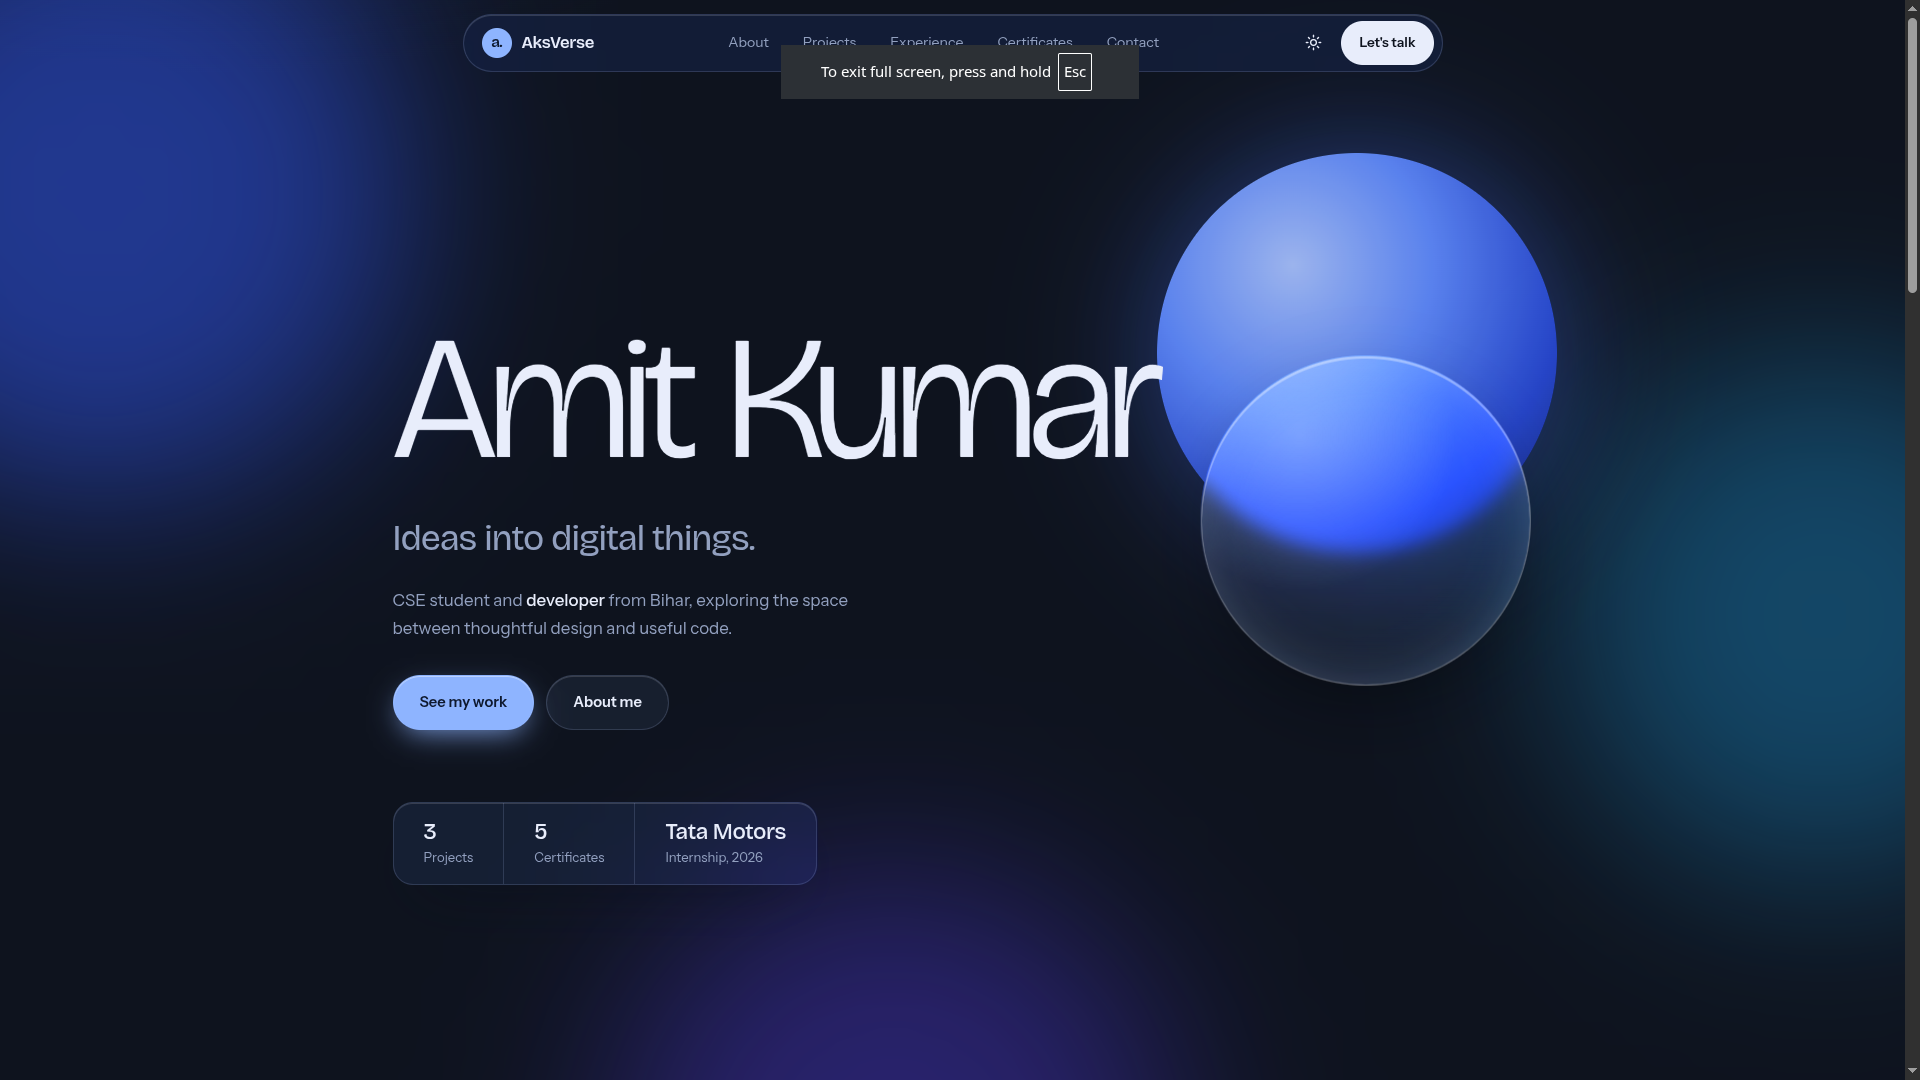
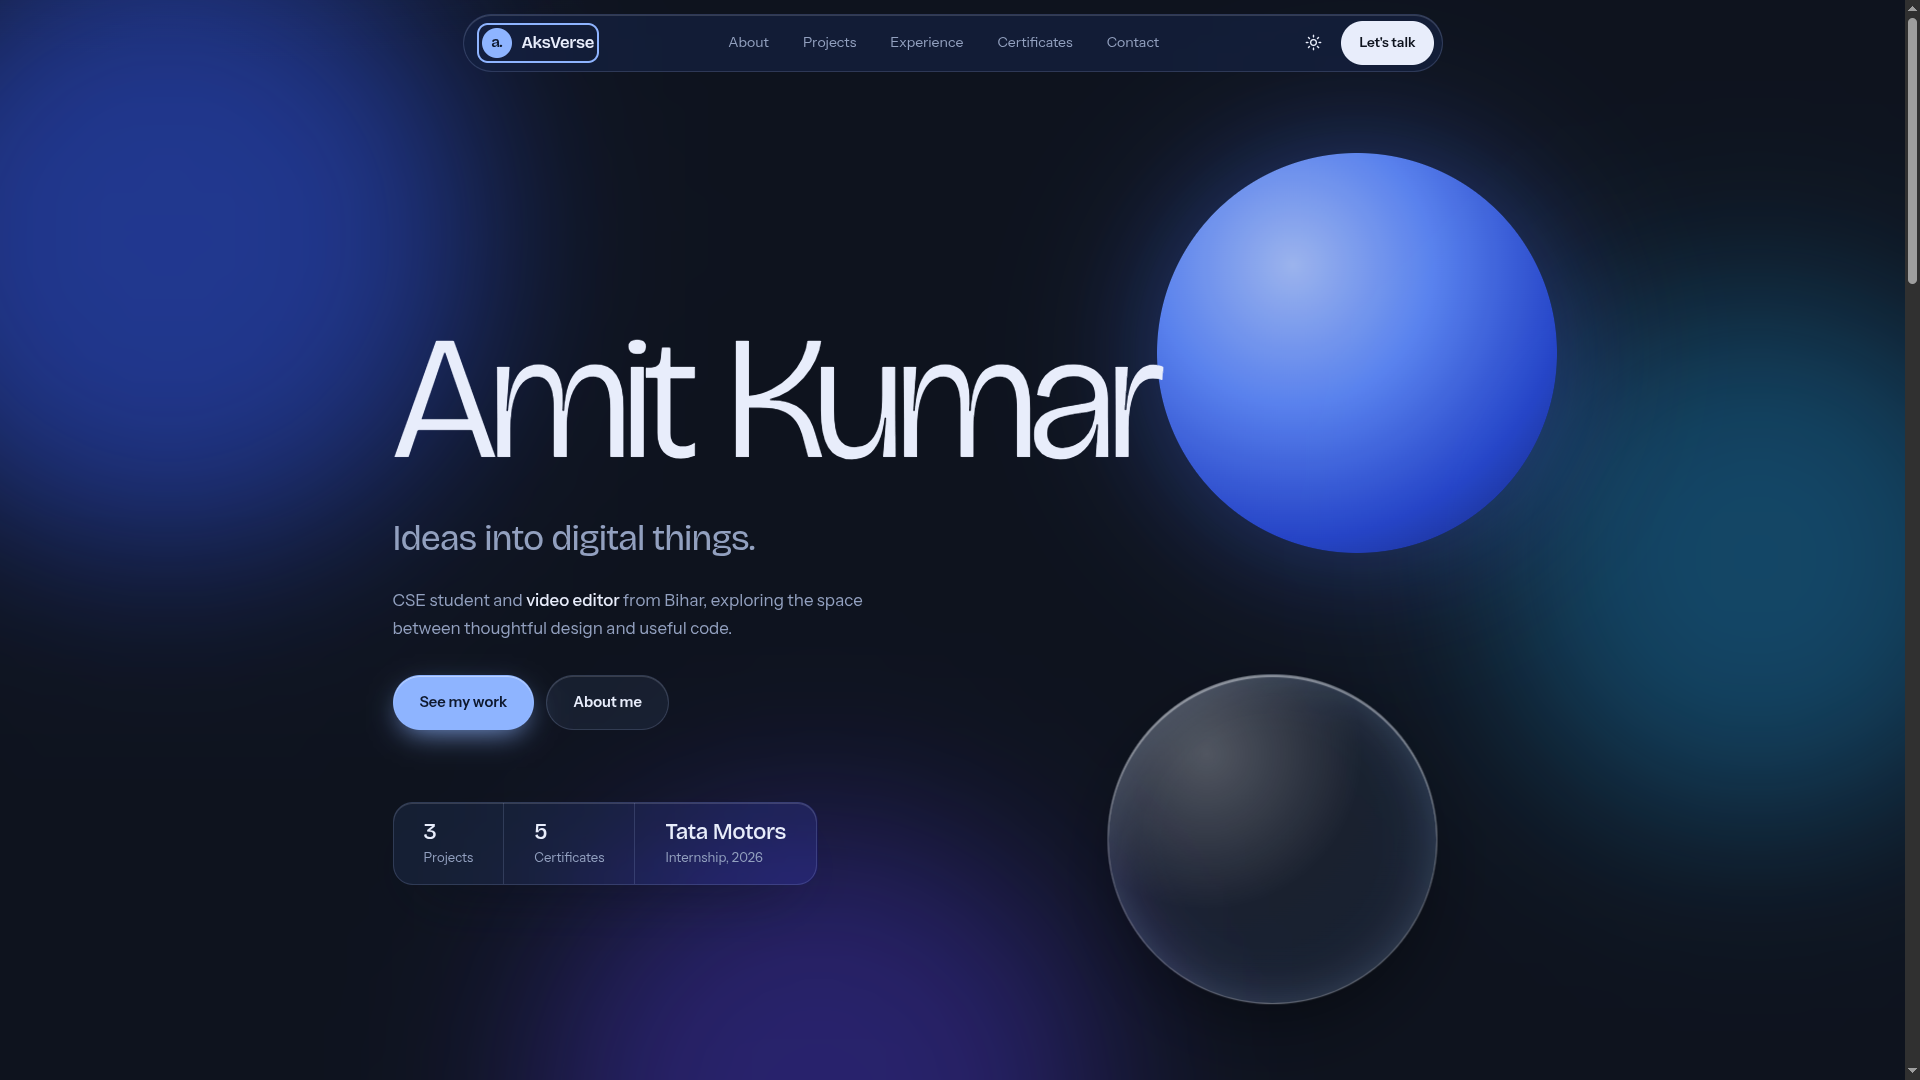
added image

diff --git a/src/data.ts b/src/data.ts
@@ -67,6 +67,7 @@ export const projects: Project[] = [
     stack: ['React', 'TypeScript', 'CSS'],
     github: 'https://github.com/Amittkumarr07/AksVerse',
     live: 'https://theamitkumar.in',
+    image: '/projects/aksverse.png', 
     mark: 'A/',
     tone: 'violet',
     number: '01',
@@ -80,6 +81,7 @@ export const projects: Project[] = [
     stack: ['HTML', 'CSS', 'JavaScript'],
     github: 'https://github.com/Amittkumarr07/Buyit',
     live: 'https://amittkumarr07.github.io/Buyit',
+    image: '/projects/buyit.png',
     mark: 'B.',
     tone: 'blue',
     number: '02',
